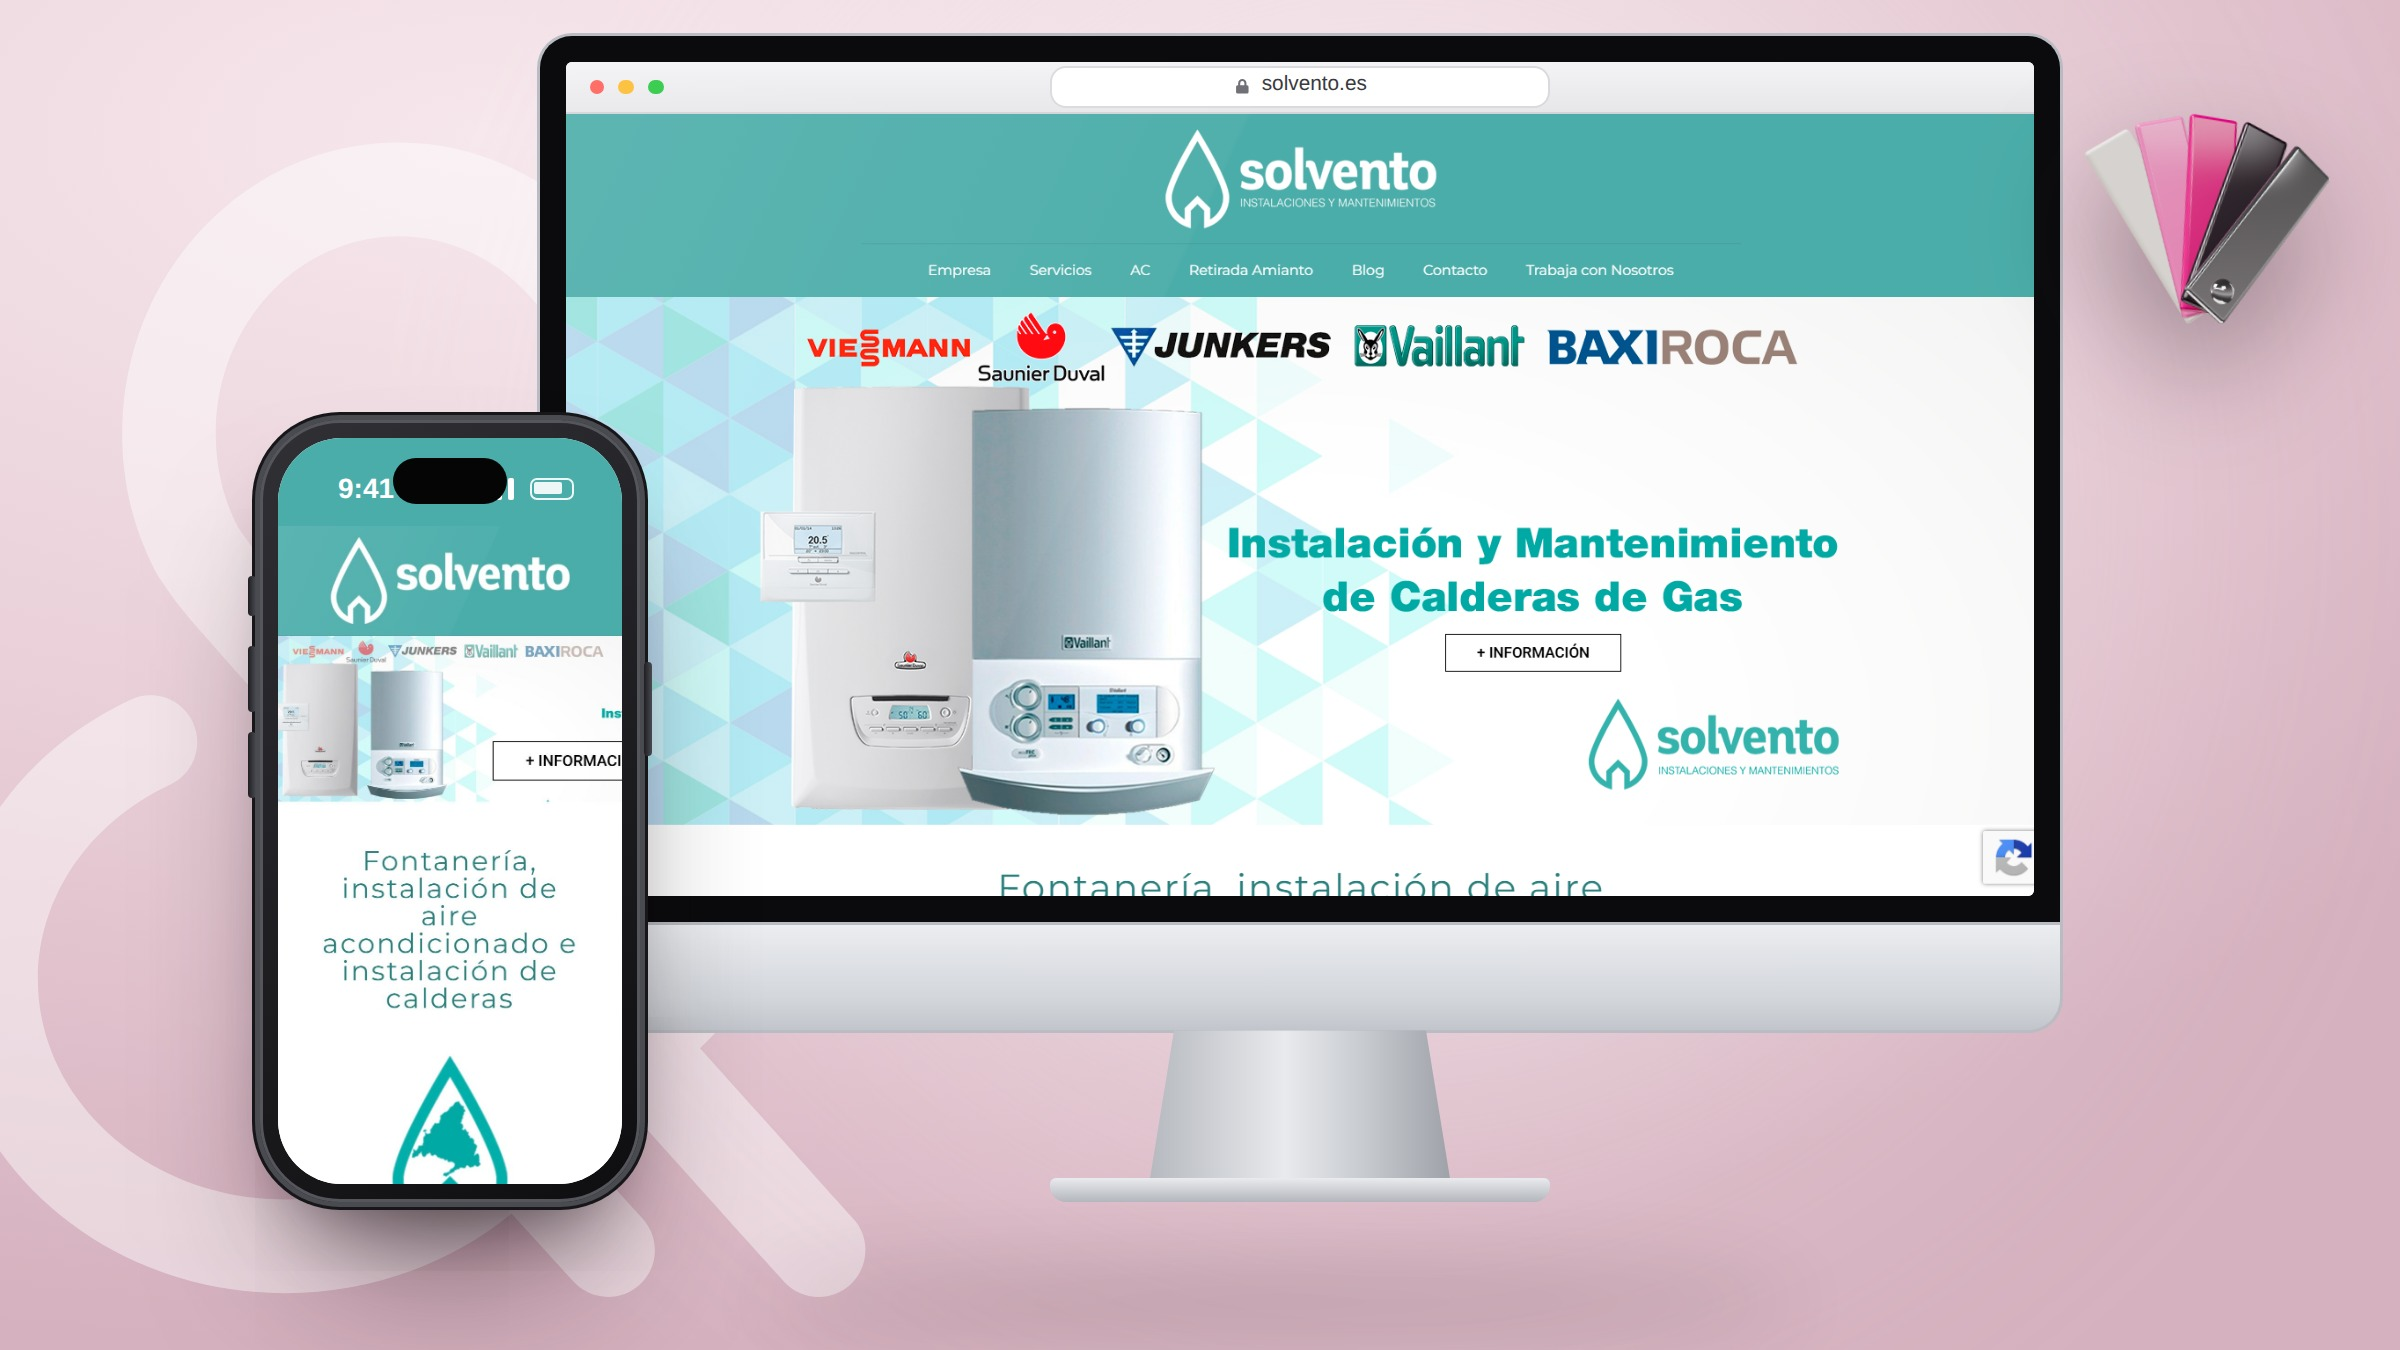
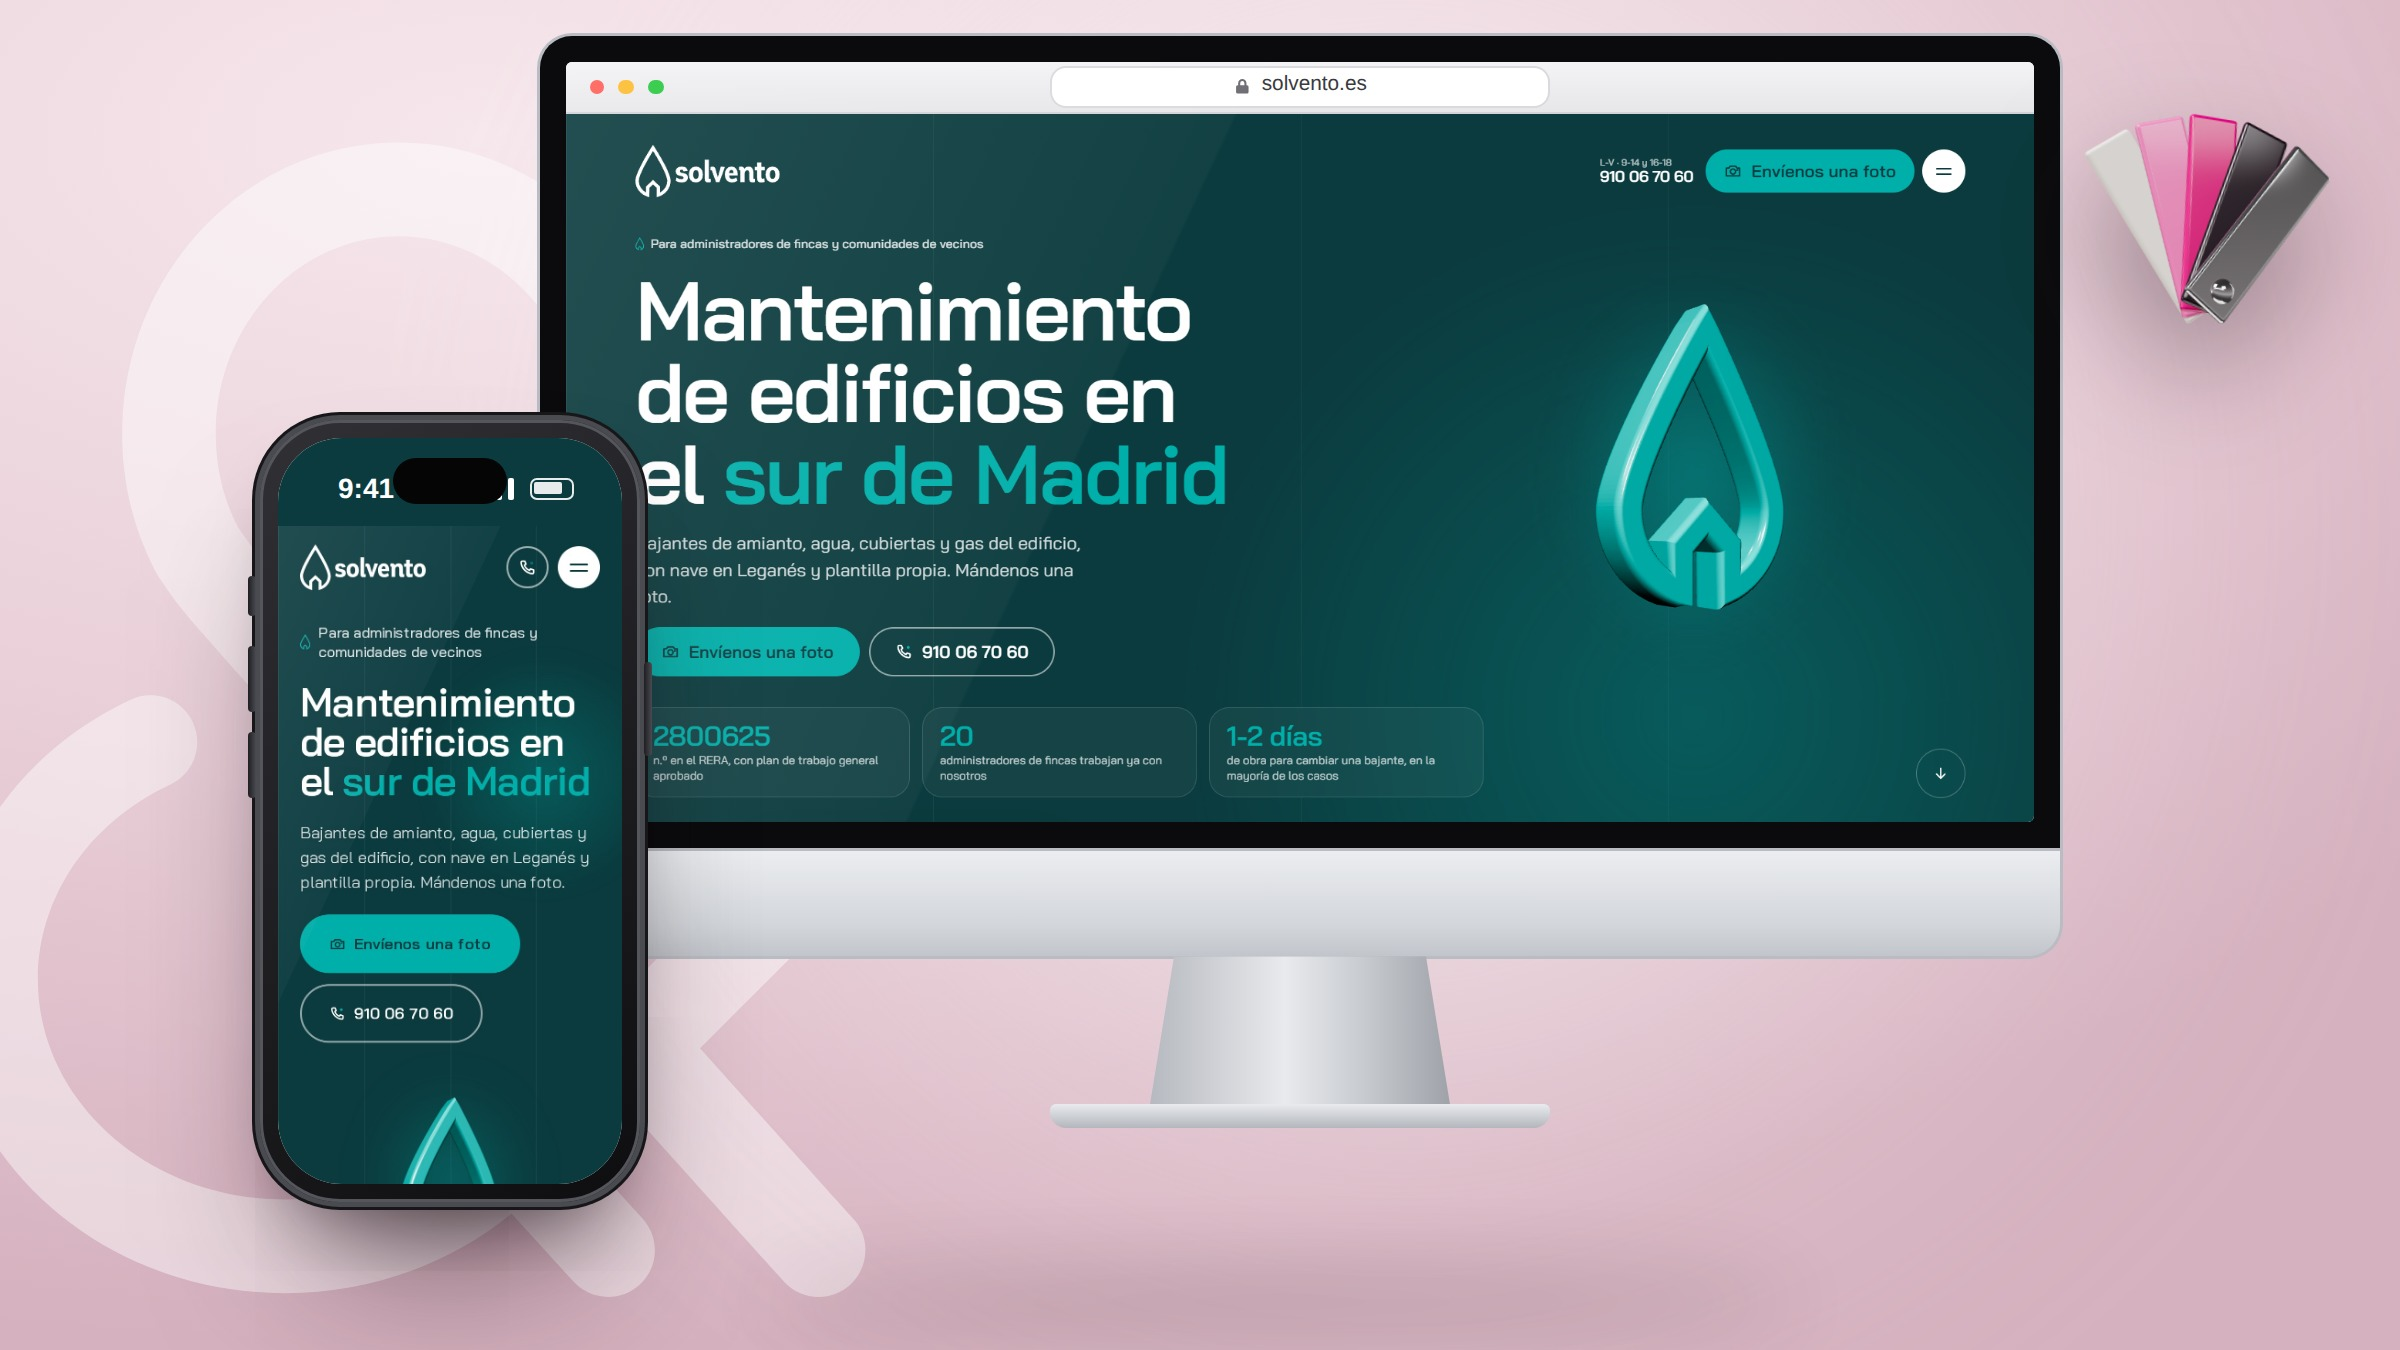
Add files via upload

diff --git a/herramientas/maquetas/escaparate.py b/herramientas/maquetas/escaparate.py
@@ -217,8 +217,8 @@ def composiciones():
         + obj("estrella", 1040, 470, 140, 10, 4))
     C["escaparate-solvento"] = (F_MALVA,
         simbolo_marca(-40, 60, 600, "#FFFFFF", .45) + resplandor(700, 260, 300, "#FFFFFF", .5) + suelo(380, 640, 520, 22, .45)
-        + sobremesa(270, 18, 760, ruta("solvento-escritorio.jpg"), "solvento.es")
-        + movil(130, 210, 190, ruta("solvento-movil.jpg"))
+        + sobremesa(270, 18, 760, hd("solvento-v2-escritorio", (0, 0, 1904, 919)), "solvento.es")   # web v2 (03/10)
+        + movil(130, 210, 190, "file://" + os.path.join(CRUDO, "solvento-v2-movil.jpg"))
         + obj("abanico", 1030, 40, 140, 8, 4))
     C["escaparate-rfg-andrade"] = (F_FUCSIA,
         simbolo_marca(640, -80, 760, "#FF5AAB", .32) + suelo(150, 610, 880, 30, .6)
